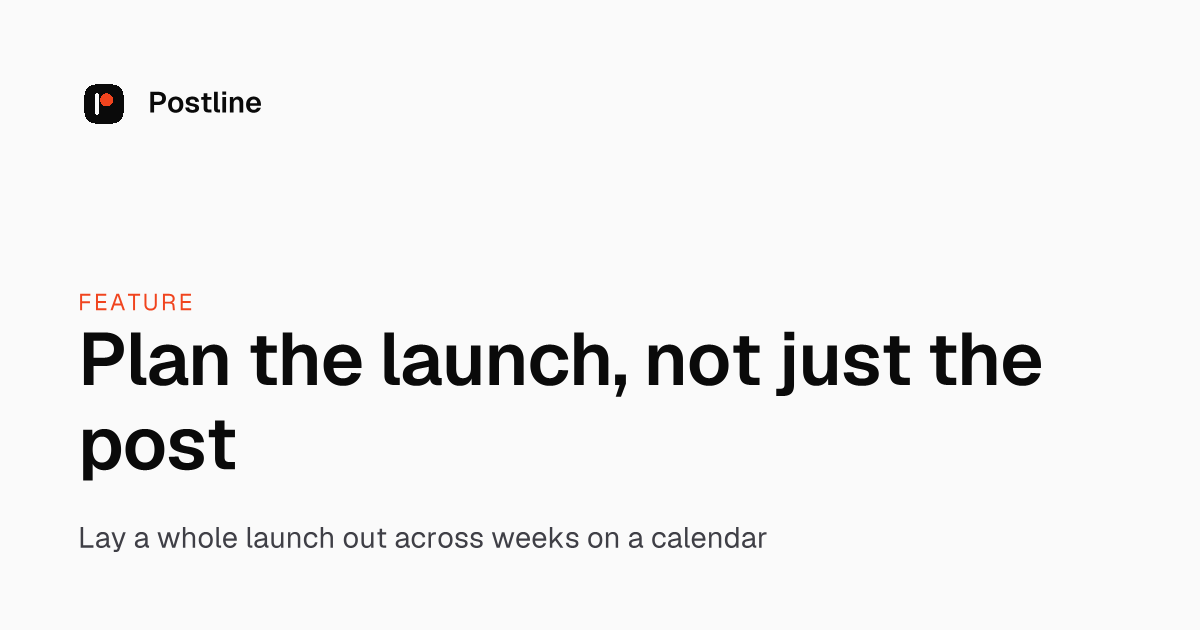
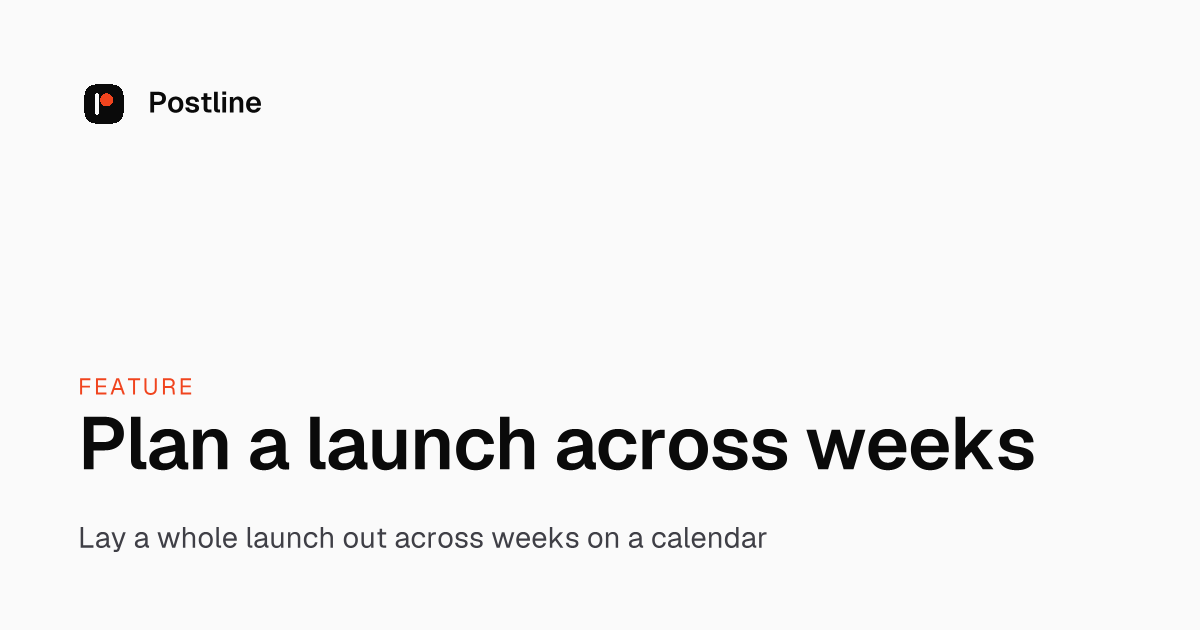
docs: align product terminology across the site and app
Refs #231

Changed region(s): [[0.0617, 0.4524, 0.8633, 0.6333], [0.0617, 0.6635, 0.8633, 0.754]]

diff --git a/app/Support/Marketing/catalog.ts b/app/Support/Marketing/catalog.ts
@@ -36,13 +36,13 @@ export const FEATURES: MarketingEntry[] = [
     icon: 'share-08',
     intro: 'The same update has to reach people on whichever network they use. Postline takes one draft, checks it against each network, and publishes to all of them at once, to as many accounts on each as you have connected.',
     sections: [
-      { heading: 'Publish in one pass', body: 'Pick the accounts you want, write the post, and send it. Each target is published independently, so one network failing never blocks the rest.' },
+      { heading: 'Publish in one pass', body: 'Pick the accounts you want, write the post, and send it. Postline sends to each selected account independently, so the other accounts can still publish if one fails.' },
       { heading: 'Failures stay visible', body: 'A rejected post is recorded against the network that rejected it, with the network\'s own error text. Nothing fails silently. Rate limits and short outages are retried automatically, up to five times, and the queue shows when the next try is; any other failure waits for you.' },
       { heading: 'Several accounts per network', body: 'Connect a personal and a company account on the same network and choose, per post, which of them it goes out from.' },
     ],
     points: [
       'Six networks from one composer',
-      'Per-target status, not a single success flag',
+      'Publishing status for each account',
       'Threads chain automatically where the network supports replies',
     ],
   },
@@ -50,16 +50,16 @@ export const FEATURES: MarketingEntry[] = [
     slug: 'scheduling',
     nav: 'Scheduling',
     title: 'Queue it now, publish it later',
-    summary: 'Schedule posts ahead in your own timezone and let the queue publish them, or send immediately.',
+    summary: 'Schedule posts in your time zone, or publish them right away.',
     icon: 'calendar-03',
     intro: 'The queue is a plain list of what is going out and when. Drafts, scheduled posts and failures live in the same view, as a list or on a calendar, so there is one place to look before a launch.',
     sections: [
-      { heading: 'Your timezone, not the server\'s', body: 'Each post carries the timezone it was written in, so a 9am slot stays 9am regardless of where Postline runs.' },
+      { heading: 'Set your time zone', body: 'The queue uses the time zone you choose in Settings. A 9 a.m. slot follows that time zone wherever Postline runs.' },
       { heading: 'Publish now when plans change', body: 'Anything in the queue can be edited or sent immediately without rewriting it. The scheduled entry becomes a published one and keeps its history.' },
       { heading: 'What the queue needs', body: 'A scheduled post fires when Postline is running. On a laptop that means while the app is open; on a small always-on server the queue keeps publishing overnight.' },
     ],
     points: [
-      'Drafts, scheduled, publishing and failed in one list',
+      'Scheduled, Drafts, Published, and Needs attention tabs',
       'List and calendar views',
       'Publish now without losing the draft',
     ],
@@ -73,7 +73,7 @@ export const FEATURES: MarketingEntry[] = [
     intro: 'X gives you 280 characters. Bluesky gives you 300, Mastodon 500, LinkedIn 3000. Writing to the tightest limit makes every post worse. Variants let one network differ without forking the draft.',
     sections: [
       { heading: 'Override only what needs it', body: 'The shared body is the default. Any network you give a variant to publishes that instead, and the rest keep inheriting, so a small tweak stays a small tweak.' },
-      { heading: 'Counted against the right limit', body: 'The composer counts each variant against the character limit of the network it belongs to, so you find out before publishing and not after.' },
+      { heading: 'Counted against the right limit', body: 'The composer checks each variant against its network’s limit before publishing.' },
     ],
     points: [
       'One shared body, optional per-network overrides',
@@ -84,14 +84,14 @@ export const FEATURES: MarketingEntry[] = [
   {
     slug: 'campaigns',
     nav: 'Campaigns',
-    title: 'Plan the launch, not just the post',
+    title: 'Plan a launch across weeks',
     summary: 'Lay a whole launch out across weeks on a calendar, then move the finished plan into the queue in one step.',
     icon: 'flowchart-01',
     intro: 'A launch is a sequence: the teaser, the announcement, the follow-ups, the lesson learned. Campaigns give that sequence a calendar of its own, so you shape the story first and schedule it second.',
     sections: [
       { heading: 'A calendar for the whole arc', body: 'Set the window, drop posts onto days, and drag them when the plan changes. Each post names the channels it is going to, so a gap in the plan is something you can see.' },
       { heading: 'An assistant that drafts the sequence', body: 'Describe the goal, the audience and the tone, and the assistant proposes a sequence you can edit. It works with an OpenAI or Anthropic key, with a local Ollama model, or with the built-in planner when you have no key at all.' },
-      { heading: 'Nothing publishes until you say so', body: 'A campaign is a plan until you activate it. Activating moves its posts into the publishing queue, scheduled in the campaign\'s own timezone.' },
+      { heading: 'Activate when the plan is ready', body: 'A campaign is a plan until you activate it. Activating moves its posts into the publishing queue, scheduled in the campaign\'s own timezone.' },
     ],
     points: [
       'Calendar and list views of a launch',
@@ -105,15 +105,15 @@ export const FEATURES: MarketingEntry[] = [
     title: 'Answer everyone from one inbox',
     summary: 'Read and reply to direct messages from Bluesky and Mastodon without switching apps.',
     icon: 'message-01',
-    intro: 'Posting to six networks means conversations start in six places. The inbox pulls your direct messages into one list, so replying is one habit and not a round of tabs.',
+    intro: 'See direct messages from Bluesky and Mastodon together. Open a conversation, reply, or archive it from the same inbox.',
     sections: [
       { heading: 'One list for Bluesky and Mastodon', body: 'Sync pulls the latest conversations from each connected account. Filter by network, open a thread, reply in place, and archive what is done.' },
-      { heading: 'Honest about what a network allows', body: 'Bluesky messages need an app password created with direct-message access. X messages are not supported yet, and Instagram messages need Meta\'s app review, which an app you made for yourself does not have. Threads has no public messaging API and LinkedIn limits its own to approved partners. Postline says so in the inbox and does not pretend those messages are there.' },
+      { heading: 'Bluesky message permissions', body: 'To read and reply to Bluesky direct messages, connect with an app password that includes direct-message access.' },
     ],
     points: [
       'Direct messages from Bluesky and Mastodon',
       'Reply, mark read and archive',
-      'Unsupported networks are named, not hidden',
+      'Filter by network and account',
     ],
   },
   {
@@ -124,7 +124,7 @@ export const FEATURES: MarketingEntry[] = [
     icon: 'radar-02',
     intro: 'Most mentions never tag you. A listening rule is a set of keywords and the networks to watch them on, checked on a schedule, with every match collected where you will read it.',
     sections: [
-      { heading: 'Rules, not searches you rerun', body: 'Give a rule up to twenty keywords and choose whether any or all of them must appear. Postline checks active rules every five minutes while it is running.' },
+      { heading: 'Automatic keyword checks', body: 'Give a rule up to twenty keywords and choose whether any or all of them must appear. Postline checks active rules every five minutes while it is running.' },
       { heading: 'A mention inbox', body: 'Matches arrive in one list, unread until you open them, filterable by rule. Scan now when you do not want to wait for the next check.' },
     ],
     points: [
@@ -139,11 +139,11 @@ export const FEATURES: MarketingEntry[] = [
     title: 'What actually landed',
     summary: 'Publishing activity across every network, and engagement for Bluesky posts, stored against the posts that earned it.',
     icon: 'chart-line-data-01',
-    intro: 'Every network shows you its own numbers in its own app. Postline keeps what it publishes in one place, and syncs likes, reposts and replies for Bluesky posts against the post that earned them. Engagement from the other networks is not synced yet.',
+    intro: 'Compare publishing activity across the networks you use. Postline syncs likes, reposts, and replies for Bluesky and shows the interactions earned by measured posts.',
     sections: [
-      { heading: 'Counts, attached to your posts', body: 'Likes, reposts and replies are stored per published target, never blended into one total. Today they are synced for Bluesky; the other networks are on the way.' },
+      { heading: 'Counts, attached to your posts', body: 'Postline stores interactions with each measured Bluesky post. Recommendations require enough measured posts and a clear leader.' },
       { heading: 'When and where you publish', body: 'See how much went out over the last thirty days, which channels carried it, and which posting windows you actually use.' },
-      { heading: 'Batched and rate-aware', body: 'The Bluesky sync runs in batches, and posts deleted upstream are skipped and not reported as errors.' },
+      { heading: 'Batched and rate-aware', body: 'The Bluesky sync runs in batches and skips posts that have been deleted.' },
     ],
     points: [
       'Bluesky likes, reposts and replies per post',
@@ -152,7 +152,7 @@ export const FEATURES: MarketingEntry[] = [
     ],
   },
   {
-    slug: 'bulk-delete',
+    slug: 'cleanup',
     nav: 'Cleanup',
     title: 'Take it all back down',
     summary: 'Delete old posts automatically after a set number of days, or clear a whole account in one run, with a preview first.',
@@ -177,8 +177,8 @@ export const FEATURES: MarketingEntry[] = [
     icon: 'key-01',
     intro: 'Every hosted scheduler holds the one thing that matters: permission to post as you, on every account you connected. Postline is the same kind of tool with that permission kept on hardware you control.',
     sections: [
-      { heading: 'Tokens stay where you put them', body: 'Access and refresh tokens are stored encrypted with a key your instance generates. Nobody else has a copy, because there is nobody else.' },
-      { heading: 'Your history is a database', body: 'Every post, target and metric is a row in a SQLite file you can query, copy, or export from Settings as one file that another install can import. Dropping a network does not erase what you published there.' },
+      { heading: 'Tokens stay where you put them', body: 'Postline encrypts access and refresh tokens with a key your installation generates. The connected network receives the credential when Postline uses its API.' },
+      { heading: 'Your history is a database', body: 'Postline stores posts, publishing results, and metrics in SQLite. Export your workspace from Settings to move that history to another install.' },
       { heading: 'Run it wherever suits you', body: 'It runs on Bun with a SQLite file: on a Mac as one app, or on a small server when you want the queue publishing while the laptop is shut. Instagram and Threads fetch images from a public address, so on a laptop they need the temporary image links switch in Settings.' },
     ],
     points: [
@@ -196,7 +196,7 @@ export const USE_CASES: MarketingEntry[] = [
     title: 'Ship the update everywhere',
     summary: 'Post launches, changelogs and build notes to every network without doing it six times.',
     icon: 'rocket-01',
-    intro: 'Building in public means the same update has to reach people on whichever network they happen to use. That is repetitive work that scales with the number of networks, not with the value of the post.',
+    intro: 'Write an update once and reach the people following your work across networks.',
     sections: [
       { heading: 'Launch days stop being copy and paste', body: 'Plan the launch as a campaign, write each post once, and activate it. Follow-ups through the week are already in the queue.' },
       { heading: 'Keep the record', body: 'Every published post and its engagement stays in your own database. A year of building in public stays readable even if you stop using a network.' },
@@ -211,9 +211,9 @@ export const USE_CASES: MarketingEntry[] = [
     slug: 'developer-advocates',
     nav: 'Developer advocates',
     title: 'Reach every community',
-    summary: 'Developers are split across Bluesky, X and Mastodon. Reach all of them without choosing a favourite.',
+    summary: 'Share updates with developer communities on Bluesky, X, and Mastodon.',
     icon: 'user-group',
-    intro: 'Technical audiences fragmented across networks, and no single one of them is where everyone is. Posting to only one means writing off part of your community.',
+    intro: 'Developer communities gather on different networks. Reach the channels you use with copy suited to each audience.',
     sections: [
       { heading: 'Tuned per network', body: 'Mastodon and Bluesky reward a different register than LinkedIn. Per-network variants let one post read naturally on each without maintaining separate drafts.' },
       { heading: 'Hear the replies you were not tagged in', body: 'Listening rules catch a project name or an error message people post without mentioning you, on the networks developers actually use.' },
@@ -221,7 +221,7 @@ export const USE_CASES: MarketingEntry[] = [
     points: [
       'Cover fragmented developer communities',
       'Adjust tone per network',
-      'Engagement per post, not a blended average (Bluesky today)',
+      'Per-post engagement on Bluesky',
     ],
   },
   {
@@ -233,12 +233,12 @@ export const USE_CASES: MarketingEntry[] = [
     intro: 'Giving a closed service permission to post as you is a bigger ask than it looks. Postline is MIT licensed and runs on your own machine, so you can read exactly what it does before it gets that permission.',
     sections: [
       { heading: 'Announce a release once', body: 'Version announcements go to every network in one action, so shipping a release does not turn into a marketing chore.' },
-      { heading: 'Software you can inspect', body: 'The whole codebase is readable and MIT licensed. If it does not do what you need, the fix is a pull request and not a support ticket.' },
+      { heading: 'Software you can inspect', body: 'The codebase is MIT licensed. Inspect it or submit a pull request to change how it works.' },
     ],
     points: [
       'MIT licensed, auditable end to end',
       'Runs on your machine',
-      'No vendor holding publish rights',
+      'Account credentials stay with your workspace',
     ],
   },
   {
@@ -247,7 +247,7 @@ export const USE_CASES: MarketingEntry[] = [
     title: 'Accounts you actually control',
     summary: 'One person posting for several client accounts, without a vendor holding their tokens.',
     icon: 'building-03',
-    intro: 'Scheduling tools price by account and hold the access tokens for clients you are responsible for. Running the tool yourself removes both. Postline has one owner and no team seats, so it suits a person handling several clients, not a team sharing one workspace.',
+    intro: 'One workspace owner can publish for several clients. Connect each client account and choose which ones receive a post.',
     sections: [
       { heading: 'No per-account pricing', body: 'Cost does not change with the number of accounts connected, because there is no vendor in the middle metering it.' },
       { heading: 'Clean handover', body: 'When an engagement ends, disconnect the account to delete its tokens from Postline, have the client remove the app in that network\'s settings, and give them an export of the workspace with the posting history.' },

diff --git a/app/Support/Marketing/site.ts b/app/Support/Marketing/site.ts
@@ -55,12 +55,10 @@ export function marketingPaths(viewsDir: string = join(process.cwd(), 'resources
   return paths.sort()
 }
 
-/**
- * The redirects an install applies, or none on the marketing site. 302, not
- * 301: the same path is a real page on the marketing deployment, and a
- * browser must not remember the redirect across the two.
- */
+/** The public site redirects retired URLs. Workspace installs redirect marketing pages temporarily. */
 export function marketingRedirects(env: Record<string, string | undefined> = process.env, viewsDir?: string): Record<string, { to: string, status: number, preserveQuery: boolean }> {
-  if (isMarketingSite(env)) return {}
-  return Object.fromEntries(marketingPaths(viewsDir).map(path => [path, { to: WORKSPACE_PATH, status: 302, preserveQuery: false }]))
+  const formerCleanupPath = '/features/bulk-delete'
+  if (isMarketingSite(env)) return { [formerCleanupPath]: { to: '/features/cleanup', status: 301, preserveQuery: true } }
+  const paths = [...marketingPaths(viewsDir), formerCleanupPath]
+  return Object.fromEntries(paths.map(path => [path, { to: WORKSPACE_PATH, status: 302, preserveQuery: false }]))
 }

diff --git a/tests/unit/marketing-site.test.ts b/tests/unit/marketing-site.test.ts
@@ -24,13 +24,15 @@ describe('the marketing site is served only where asked for (#222)', () => {
 
   test('an install sends each one to the workspace with a temporary redirect', () => {
     const redirects = marketingRedirects({}, join(root, 'resources/views'))
-    expect(Object.keys(redirects)).toEqual(marketingPaths(join(root, 'resources/views')))
+    expect(Object.keys(redirects)).toEqual([...marketingPaths(join(root, 'resources/views')), '/features/bulk-delete'])
     for (const rule of Object.values(redirects))
       expect(rule).toEqual({ to: WORKSPACE_PATH, status: 302, preserveQuery: false })
   })
 
-  test('the marketing site redirects nothing', () => {
-    expect(marketingRedirects({ POSTLINE_SITE: 'marketing' }, join(root, 'resources/views'))).toEqual({})
+  test('the marketing site redirects the retired Cleanup URL', () => {
+    expect(marketingRedirects({ POSTLINE_SITE: 'marketing' }, join(root, 'resources/views'))).toEqual({
+      '/features/bulk-delete': { to: '/features/cleanup', status: 301, preserveQuery: true },
+    })
   })
 
   test('the server config and the waitlist route both ask', () => {

diff --git a/scripts/marketing-og.ts b/scripts/marketing-og.ts
@@ -87,7 +87,7 @@ function fit(text: string, max = 58): string {
   const clause = text.split(/,|\. /)[0] ?? text
   if (clause.length <= max)
     return clause
-  return `${clause.slice(0, clause.lastIndexOf(' ', max)).trimEnd()}...`
+  return `${clause.slice(0, clause.lastIndexOf(' ', max)).trimEnd()}…`
 }
 
 interface Card {

diff --git a/docs/workspace-data.md b/docs/workspace-data.md
@@ -21,9 +21,9 @@ On a server, use the online snapshot procedure. [Back up and restore a server](.
 
 ## Remove posts from networks
 
-Open **Settings > Channels > Manage Channels**, then **Post removal tools**. Choose the networks and whether to include all posts on those accounts or only posts made through Postline. Preview the results, review the counts, and enter the confirmation phrase if you want to proceed. Supported deletion networks are Bluesky, X, Mastodon, and LinkedIn. Remote deletion is permanent.
+Open **Settings > Channels > Manage Channels**, then **Cleanup**. Choose the networks and whether to include all posts on those accounts or only posts made through Postline. Preview the results, review the counts, and enter the confirmation phrase if you want to proceed. Supported deletion networks are Bluesky, X, Mastodon, and LinkedIn. Remote deletion is permanent.
 
-For age-based cleanup, use **Settings > Automatic Deletion**. Select the cutoff in days, the scope, and the networks. Preview the rule before saving it. The scheduler checks it daily and preserves posts whose dates it cannot read.
+For age-based cleanup, use **Settings > Automatic Cleanup**. Select the cutoff in days, the scope, and the networks. Preview the rule before saving it. The scheduler checks it daily and preserves posts whose dates it cannot read.
 
 ## Remove the local workspace or uninstall
 

diff --git a/docs/compose.md b/docs/compose.md
@@ -4,7 +4,7 @@ Open **Composer** and select the connected accounts you want to publish to. If y
 
 ## Shared text and network variants
 
-Write the shared text in **Single** mode. The character count reflects the selected networks. If one network's copy needs a shorter version, different wording, or a different link, open **Customise per network** and enter its text. A variant applies to every selected account on that network. Review the variants again after changing the shared text. Removing a variant restores the shared text for that network.
+Write the shared text in **Single** mode. The character count reflects the selected networks. If one network's copy needs a shorter version, different wording, or a different link, open **Customize per network** and enter its text. A variant applies to every selected account on that network. Review the variants again after changing the shared text. Removing a variant restores the shared text for that network.
 
 ## Threads
 

diff --git a/README.md b/README.md
@@ -176,6 +176,13 @@ bun run typecheck:app
 Commits follow [Conventional Commits](https://www.conventionalcommits.org).
 `AGENTS.md` records the project rules for people and coding agents alike.
 
+### Product terms
+
+- A **network** is a social service such as Bluesky or Mastodon.
+- An **account** is a sign-in connected to a network. The **workspace owner** signs in to Postline itself.
+- A **channel** is a publishing destination. A connected account and the built-in Blog are both channels.
+- **Cleanup** removes posts from connected accounts. **Automatic Cleanup** runs that removal on a schedule.
+
 ## License
 
 MIT. See [LICENSE.md](LICENSE.md).
